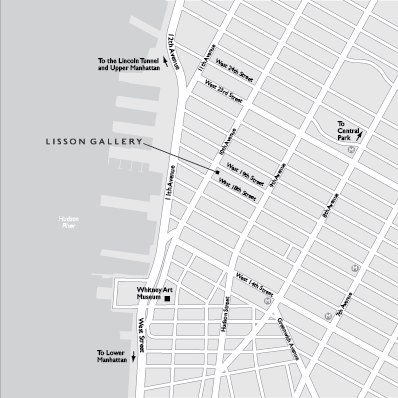
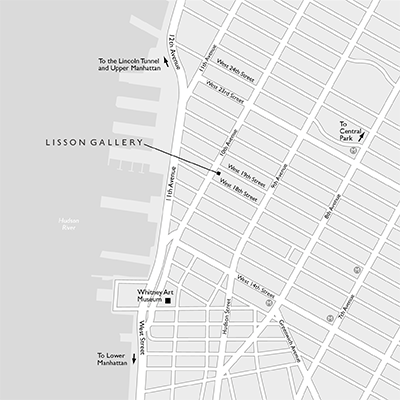
Artist and exhibition updates

diff --git a/main.css b/main.css
@@ -1,0 +1,23 @@
+/*
+Errno::ENOENT: No such file or directory @ rb_sysopen - main.scss
+
+Backtrace:
+/Users/inayaili/.rvm/gems/ruby-2.4.0/gems/sass-3.5.5/lib/sass/plugin/compiler.rb:454:in `read'
+/Users/inayaili/.rvm/gems/ruby-2.4.0/gems/sass-3.5.5/lib/sass/plugin/compiler.rb:454:in `update_stylesheet'
+/Users/inayaili/.rvm/gems/ruby-2.4.0/gems/sass-3.5.5/lib/sass/plugin/compiler.rb:215:in `block in update_stylesheets'
+/Users/inayaili/.rvm/gems/ruby-2.4.0/gems/sass-3.5.5/lib/sass/plugin/compiler.rb:209:in `each'
+/Users/inayaili/.rvm/gems/ruby-2.4.0/gems/sass-3.5.5/lib/sass/plugin/compiler.rb:209:in `update_stylesheets'
+/Users/inayaili/.rvm/gems/ruby-2.4.0/gems/sass-3.5.5/lib/sass/plugin/compiler.rb:294:in `watch'
+/Users/inayaili/.rvm/gems/ruby-2.4.0/gems/sass-3.5.5/lib/sass/plugin.rb:109:in `method_missing'
+/Users/inayaili/.rvm/gems/ruby-2.4.0/gems/sass-3.5.5/lib/sass/exec/sass_scss.rb:360:in `watch_or_update'
+/Users/inayaili/.rvm/gems/ruby-2.4.0/gems/sass-3.5.5/lib/sass/exec/sass_scss.rb:51:in `process_result'
+/Users/inayaili/.rvm/gems/ruby-2.4.0/gems/sass-3.5.5/lib/sass/exec/base.rb:52:in `parse'
+/Users/inayaili/.rvm/gems/ruby-2.4.0/gems/sass-3.5.5/lib/sass/exec/base.rb:19:in `parse!'
+/Users/inayaili/.rvm/gems/ruby-2.4.0/gems/sass-3.5.5/bin/sass:13:in `<top (required)>'
+/Users/inayaili/.rvm/gems/ruby-2.4.0/bin/sass:22:in `load'
+/Users/inayaili/.rvm/gems/ruby-2.4.0/bin/sass:22:in `<main>'
+*/
+body:before {
+  white-space: pre;
+  font-family: monospace;
+  content: "Errno::ENOENT: No such file or directory @ rb_sysopen - main.scss"; }

diff --git a/exhibition.html b/exhibition.html
@@ -41,7 +41,7 @@
 
       <main>
 
-        <div class="space-bottom-m">
+        <div class="mb-2">
           <img class="full-width" src="assets/exhibition/exhibition-1@2x-50.jpg" />
           <h3 class="mb-0">Gerard Byrne: In Our Time</h3>
           <h3 class="no-margin">New York, 3 November – 22 December 2017</h3>
@@ -84,7 +84,7 @@
         <div class="news-grid-5up">
           <div class="news-grid-5up-item span-2">
             <a href="https://goo.gl/maps/pbUk6rK1dz42">
-              <img src="assets/exhibition/exhibition-map-bellstr.png" />
+              <img src="assets/exhibition/exhibition-map-13810th.png" />
             </a>
           </div>
           <div class="news-grid-5up-item span-3">

diff --git a/artist.html b/artist.html
@@ -9,7 +9,7 @@
 
         <link rel="manifest" href="site.webmanifest">
         <link rel="apple-touch-icon" href="icon.png">
-         
+
 
         <link rel="stylesheet" href="css/main.css">
     </head>
@@ -42,7 +42,7 @@
 
       <main>
 
-        <div class="space-bottom-m">
+        <div class="mb-2">
           <div class="  row-relative text-center">
             <!--<a class="slider-nav-left" href="#">Previous</a>-->
             <a class="slider-nav-right" href="artist-2.html">Next</a>

diff --git a/css/main.css b/css/main.css
@@ -581,6 +581,9 @@ p,
 .mb-0 {
   margin-bottom: 0 !important; }
 
+.mb-2 {
+  margin-bottom: 2rem; }
+
 /**
  * Add margins
  */

diff --git a/scss/base/_helpers.scss b/scss/base/_helpers.scss
@@ -91,6 +91,9 @@
 .mb-0 {
   margin-bottom: 0 !important; }
 
+.mb-2 {
+  margin-bottom: 2rem; }
+
 /**
  * Add margins
  */
